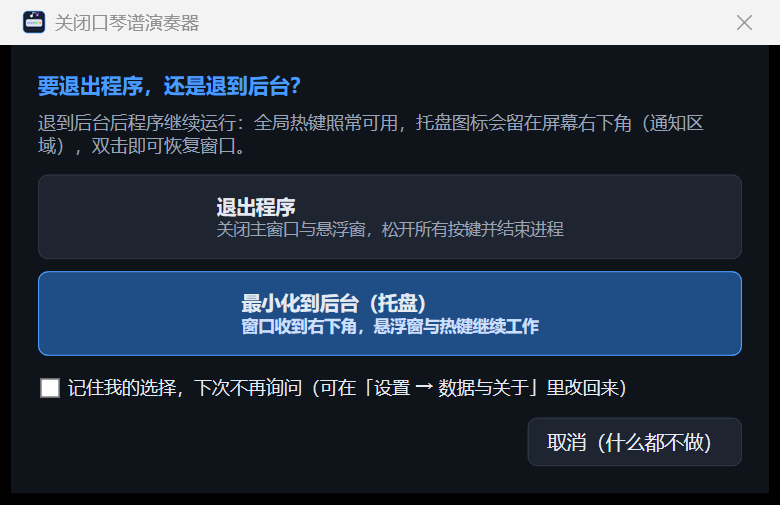
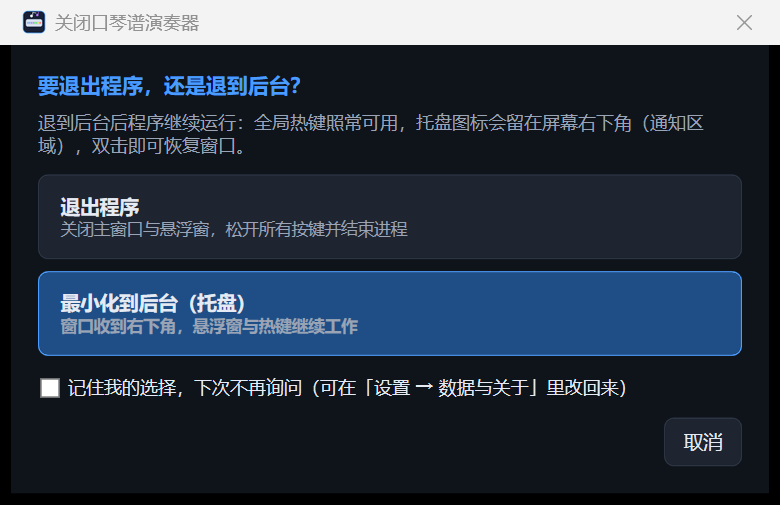
fix(1.0.0): 弹窗对齐、取消文案简化；修「解锁→拖动→锁定→再解锁拖不动」
退出询问窗口
- 两个选项改为左对齐、彼此对齐（根因：全局 Button 模板的 ContentPresenter 写死 Center，
  导致带 PrimaryButton 样式的那个按钮内容居中）；App.xaml 模板改为
  HorizontalAlignment="{TemplateBinding HorizontalContentAlignment}"，其余按钮行为不变
- 「取消（什么都不做）」→「取消」

悬浮窗拖动（用户反馈：第一次解锁能拖，锁定后再次解锁拖不动）
- 放弃 DragMove() 模态循环（它可能吞掉 MouseLeftButtonUp，造成"拖过一次就再也拖不动"），
  改为手动拖动：MouseDown 记录屏幕坐标起点 → MouseMove 按 DPI 换算的位移移动窗口 →
  MouseUp 结束并持久化；同时捕获/释放鼠标，避免快速拖动丢事件
- ApplyClickThrough 在改完扩展样式后补一次 SetWindowPos(SWP_FRAMECHANGED)，
  确保"解锁后真的能点"（运行时改 WS_EX_TRANSPARENT 有时不会立即生效）
- 拖动开始/结束/锁定/解锁全部写入 startup.log，便于定位

--locktest 扩展为「锁定→解锁→模拟拖动→锁定→再解锁→再锁定→再解锁」，
实测位置在反复切换后保持不变（593,252），ex 样式每轮正确（0x080800A8 ↔ 0x08080088），
橙框解锁态同步正确

Changed region(s): [[0.0615, 0.5644, 0.7077, 0.6832], [0.0615, 0.3861, 0.7385, 0.4752], [0.6769, 0.8614, 0.9538, 0.8911]]

diff --git a/Views/ExitChoiceWindow.xaml b/Views/ExitChoiceWindow.xaml
@@ -9,23 +9,27 @@
         <TextBlock Margin="0,0,0,12" Foreground="#9AA4B5" FontSize="12"
                    Text="退到后台后程序继续运行：全局热键照常可用，托盘图标会留在屏幕右下角（通知区域），双击即可恢复窗口。"/>
 
-        <Button x:Name="BtnExit" Click="OnExit" Margin="0,0,0,8" Padding="14,12" HorizontalContentAlignment="Left">
-            <StackPanel>
-                <TextBlock Text="退出程序" FontWeight="SemiBold"/>
-                <TextBlock Text="关闭主窗口与悬浮窗，松开所有按键并结束进程" FontSize="11" Foreground="#9AA4B5"/>
+        <Button x:Name="BtnExit" Click="OnExit" Margin="0,0,0,8" Padding="14,12"
+                HorizontalContentAlignment="Left" HorizontalAlignment="Stretch">
+            <StackPanel HorizontalAlignment="Left">
+                <TextBlock Text="退出程序" FontWeight="SemiBold" HorizontalAlignment="Left"/>
+                <TextBlock Text="关闭主窗口与悬浮窗，松开所有按键并结束进程" FontSize="11"
+                           Foreground="#9AA4B5" HorizontalAlignment="Left"/>
             </StackPanel>
         </Button>
 
         <Button x:Name="BtnBackground" Click="OnBackground" Margin="0,0,0,8" Padding="14,12"
-                HorizontalContentAlignment="Left" Style="{StaticResource PrimaryButton}">
-            <StackPanel>
-                <TextBlock Text="最小化到后台（托盘）" FontWeight="SemiBold"/>
-                <TextBlock Text="窗口收到右下角，悬浮窗与热键继续工作" FontSize="11" Foreground="#CFE0FF"/>
+                HorizontalContentAlignment="Left" HorizontalAlignment="Stretch"
+                Style="{StaticResource PrimaryButton}">
+            <StackPanel HorizontalAlignment="Left">
+                <TextBlock Text="最小化到后台（托盘）" FontWeight="SemiBold" HorizontalAlignment="Left"/>
+                <TextBlock Text="窗口收到右下角，悬浮窗与热键继续工作" FontSize="11"
+                           Foreground="#9AA4B5" HorizontalAlignment="Left"/>
             </StackPanel>
         </Button>
 
         <CheckBox x:Name="ChkRemember" Content="记住我的选择，下次不再询问（可在「设置 → 数据与关于」里改回来）"
                   Margin="0,6,0,0"/>
-        <Button Content="取消（什么都不做）" HorizontalAlignment="Right" Margin="0,12,0,0" Click="OnCancel"/>
+        <Button Content="取消" HorizontalAlignment="Right" Margin="0,12,0,0" Click="OnCancel"/>
     </StackPanel>
 </Window>

diff --git a/App.xaml b/App.xaml
@@ -46,7 +46,8 @@
                                 Background="{TemplateBinding Background}"
                                 BorderBrush="{TemplateBinding BorderBrush}"
                                 BorderThickness="{TemplateBinding BorderThickness}">
-                            <ContentPresenter HorizontalAlignment="Center" VerticalAlignment="Center"
+                            <ContentPresenter HorizontalAlignment="{TemplateBinding HorizontalContentAlignment}"
+                                              VerticalAlignment="{TemplateBinding VerticalContentAlignment}"
                                               Margin="{TemplateBinding Padding}"/>
                         </Border>
                         <ControlTemplate.Triggers>

diff --git a/Views/OverlayWindow.xaml.cs b/Views/OverlayWindow.xaml.cs
@@ -23,16 +23,35 @@ public partial class OverlayWindow : Window
     [DllImport("user32.dll", SetLastError = true)]
     private static extern int SetWindowLong(IntPtr hWnd, int nIndex, int dwNewLong);
 
+    private const uint SWP_NOSIZE = 0x0001;
+    private const uint SWP_NOMOVE = 0x0002;
+    private const uint SWP_NOZORDER = 0x0004;
+    private const uint SWP_NOACTIVATE = 0x0010;
+    private const uint SWP_FRAMECHANGED = 0x0020;
+
+    [DllImport("user32.dll", SetLastError = true)]
+    private static extern bool SetWindowPos(IntPtr hWnd, IntPtr hWndInsertAfter,
+        int x, int y, int cx, int cy, uint flags);
+
     public event EventHandler? SettingsChanged;
 
     private bool _clickThrough = true;
     private bool _applying;
+
+    // 手动拖动（不用 DragMove：它的模态循环可能吞掉鼠标抬起事件，导致"拖过一次就再也拖不动"）
+    private bool _dragging;
+    private Point _dragOrigin;
+    private double _dragStartLeft, _dragStartTop;
 
     public OverlayWindow()
     {
         InitializeComponent();
         Surface.MouseLeftButtonDown += OnSurfaceMouseDown;
         Root.MouseLeftButtonDown += OnSurfaceMouseDown;        // 整块窗口都能拖
+        Surface.MouseMove += OnDragMove;
+        Root.MouseMove += OnDragMove;
+        Surface.MouseLeftButtonUp += OnDragEnd;
+        Root.MouseLeftButtonUp += OnDragEnd;
         Root.ContextMenuOpening += (_, _) => UpdateMenuHeaders();
         MouseWheel += OnWheel;
         LocationChanged += (_, _) => PersistBounds();
@@ -125,6 +144,10 @@ public partial class OverlayWindow : Window
         if (_clickThrough) style |= WS_EX_TRANSPARENT;
         else style &= ~WS_EX_TRANSPARENT;
         SetWindowLong(handle, GWL_EXSTYLE, style);
+
+        // 运行时改扩展样式后需要 SWP_FRAMECHANGED 才会真正生效（否则可能出现"解锁了却点不动"）
+        SetWindowPos(handle, IntPtr.Zero, 0, 0, 0, 0,
+            SWP_NOMOVE | SWP_NOSIZE | SWP_NOZORDER | SWP_NOACTIVATE | SWP_FRAMECHANGED);
     }
 
     public void ApplySettings(OverlaySettings s)
@@ -181,19 +204,61 @@ public partial class OverlayWindow : Window
     private void OnSurfaceMouseDown(object sender, MouseButtonEventArgs e)
     {
         if (_clickThrough) return;
+        if (e.ChangedButton != MouseButton.Left) return;
         if (e.ClickCount == 2)
         {
             ToggleSize();
             return;
         }
+
+        // 手动拖动：记录起点，后续在 MouseMove 里按屏幕坐标差移动窗口
+        _dragging = true;
+        _dragOrigin = PointToScreen(e.GetPosition(this));
+        _dragStartLeft = Left;
+        _dragStartTop = Top;
         try
         {
-            DragMove();
+            CaptureMouse();
+            e.Handled = true;
         }
         catch
         {
-            // 拖动被取消
+            _dragging = false;
         }
+        Program.Trace($"悬浮窗开始拖动：起点={_dragStartLeft:0},{_dragStartTop:0}");
+    }
+
+    private void OnDragMove(object sender, MouseEventArgs e)
+    {
+        if (!_dragging || _clickThrough) return;
+        if (e.LeftButton != MouseButtonState.Pressed)
+        {
+            EndDrag("左键已松开");
+            return;
+        }
+
+        var p = PointToScreen(e.GetPosition(this));
+        var dpi = VisualTreeHelper.GetDpi(this);
+        Left = _dragStartLeft + (p.X - _dragOrigin.X) / dpi.DpiScaleX;
+        Top = _dragStartTop + (p.Y - _dragOrigin.Y) / dpi.DpiScaleY;
+    }
+
+    private void OnDragEnd(object sender, MouseButtonEventArgs e) => EndDrag("抬起");
+
+    private void EndDrag(string reason)
+    {
+        if (!_dragging) return;
+        _dragging = false;
+        try
+        {
+            ReleaseMouseCapture();
+        }
+        catch
+        {
+            // 忽略
+        }
+        PersistBounds();
+        Program.Trace($"悬浮窗拖动结束（{reason}）：位置={Left:0},{Top:0} 锁定={_clickThrough}");
     }
 
     private void ToggleSize()

diff --git a/Views/MainWindow.xaml.cs b/Views/MainWindow.xaml.cs
@@ -108,11 +108,24 @@ public partial class MainWindow : Window
                 ShowOverlay();
                 await Task.Delay(1200);
                 void LogEx(string tag) => Program.Trace(
-                    $"LOCKTEST {tag}: 设置锁定={_lib.Settings.Overlay.ClickThrough} 实时穿透={_overlay?.ClickThrough} 橙框解锁态={_overlay?.Canvas.Unlocked} ex={_overlay?.ExStyleHex}");
+                    $"LOCKTEST {tag}: 设置锁定={_lib.Settings.Overlay.ClickThrough} 实时穿透={_overlay?.ClickThrough} " +
+                    $"橙框解锁态={_overlay?.Canvas.Unlocked} 位置={(int)(_overlay?.Left ?? 0)},{(int)(_overlay?.Top ?? 0)} ex={_overlay?.ExStyleHex}");
                 SetOverlayLocked(true); LogEx("① 锁定");
                 SetOverlayLocked(false); LogEx("② 解锁");
-                SetOverlayLocked(true); LogEx("③ 再锁定");
-                SetOverlayLocked(false); LogEx("④ 再解锁");
+
+                // 模拟一次"拖动"（手动拖动就是改 Left/Top，由 LocationChanged 触发持久化）
+                if (_overlay != null)
+                {
+                    _overlay.Left += 60;
+                    _overlay.Top += 40;
+                }
+                await Task.Delay(250);
+                LogEx("③ 模拟拖动后");
+
+                SetOverlayLocked(true); LogEx("④ 拖动后锁定");
+                SetOverlayLocked(false); LogEx("⑤ 再解锁（应仍在拖动后的位置、且可继续拖）");
+                SetOverlayLocked(true); LogEx("⑥ 再锁定");
+                SetOverlayLocked(false); LogEx("⑦ 再解锁");
                 _reallyExit = true;
                 Close();
             }, System.Windows.Threading.DispatcherPriority.ApplicationIdle);
